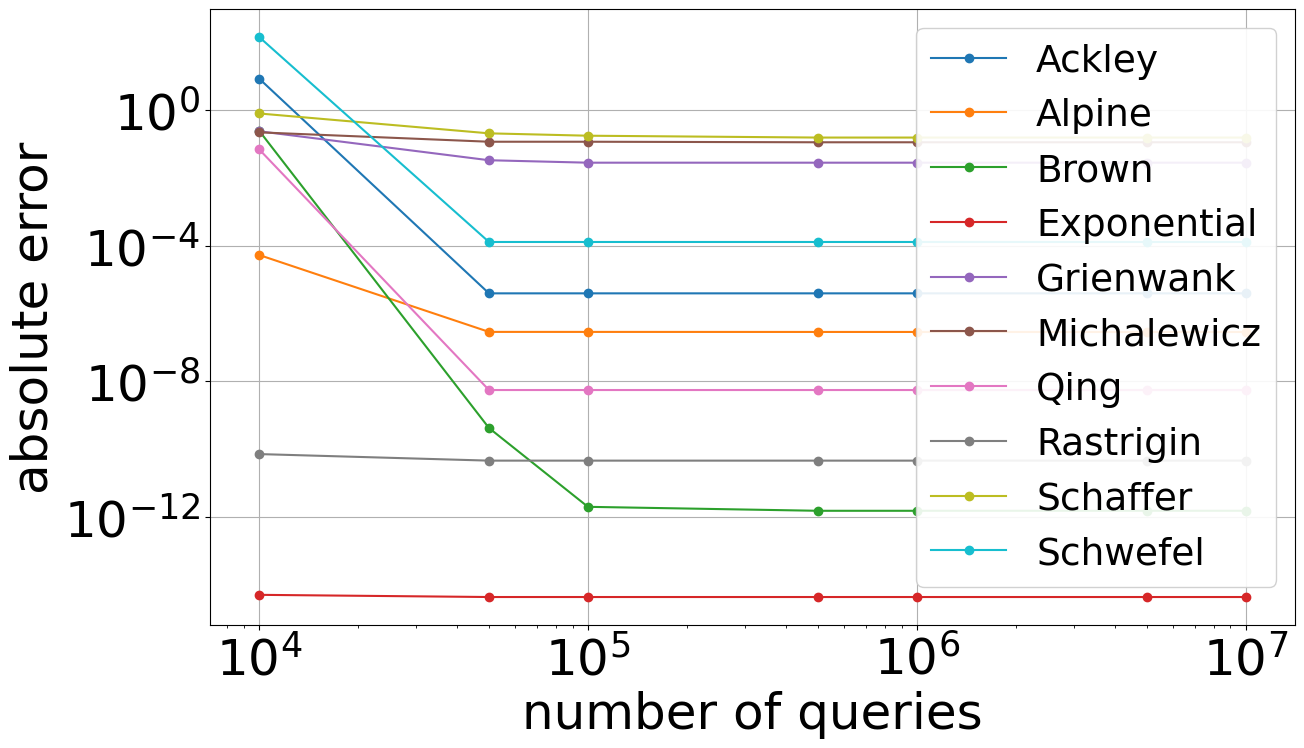
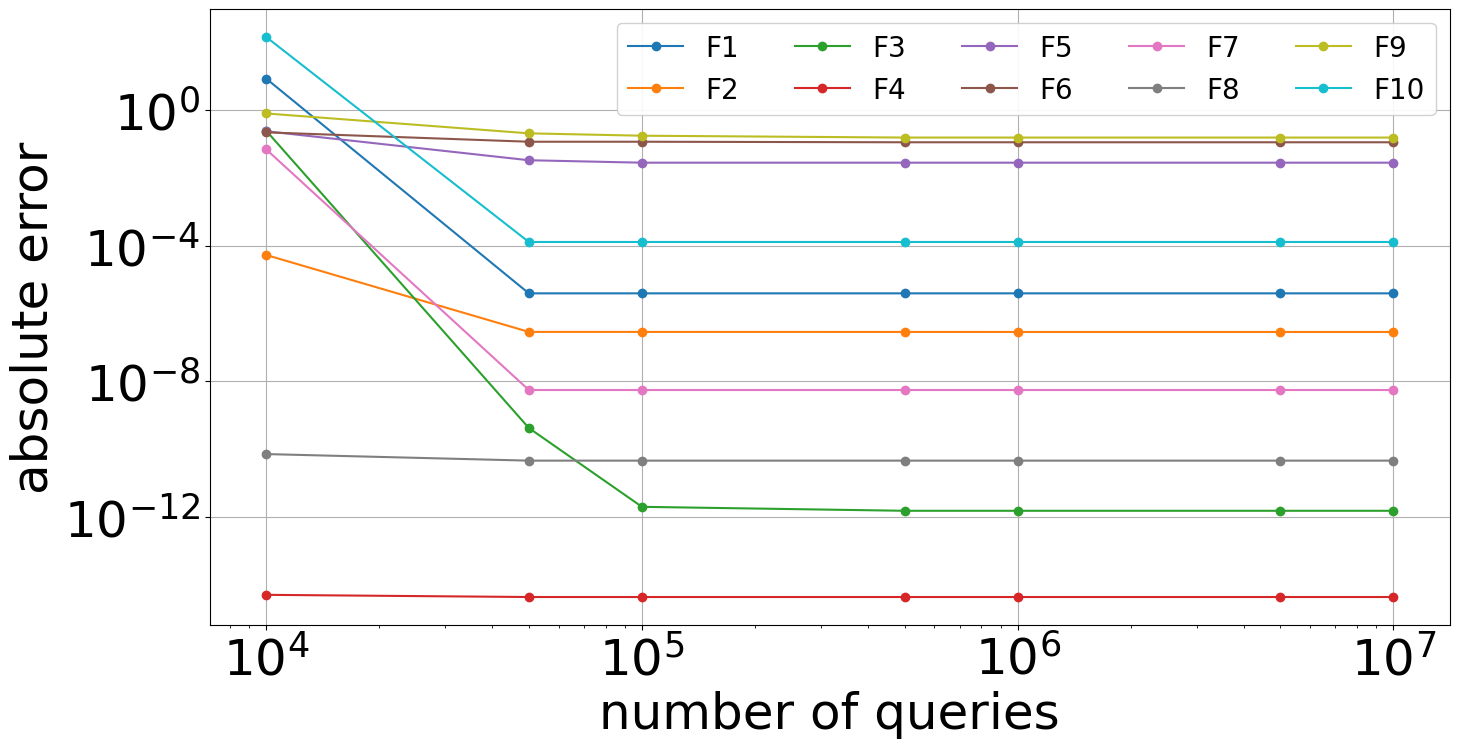
More computations

diff --git a/demo_calc/run.py b/demo_calc/run.py
@@ -237,7 +237,7 @@ def run_show(d, name='calc1'):
     """Show results of the previous calculations."""
     log(f'', d, name, 'show', is_init=True)
     run_show_comp(d, name)
-    run_show_dims(D_LIST[-1], name)
+    run_show_dims(d, D_LIST[-1], name)
     run_show_iter(d, name)
     run_show_quan(d, name)
     run_show_rank(d, name)
@@ -281,27 +281,38 @@ def run_show_comp(d, name='calc1'):
     log(text, d, name, 'show')
 
 
-def run_show_dims(d, name='calc1'):
-    res = load(d, name, 'dims')
+def run_show_dims(d0, d_max, name='calc1'):
+    res = load(d_max, name, 'dims')
     if res is None:
-        log('>>> Dims-result is not available', d, name, 'show')
+        log('>>> Dims-result is not available', d0, name, 'show')
         return
 
     text = '>>> Dims-result: \n\n'
 
-    for d in D_LIST:
-        for func in get_funcs(d):
-            item = res[d][func.name]
+    text += '% ------ AUTO CODE START\n'
+
+    for i, name_func in enumerate(res[d_max].keys(), 1):
+        text += '\\multirow{2}{*}{\\emph{F' + str(i) + '}}\n'
+
+        text += '& $\\epsilon$ \n'
+        for d in D_LIST:
+            item = res[d][name_func]
             e = item['e']
+            text += '& ' + f'{e:-8.1e}' + '\n'
+
+        text += '\\\\ \n'
+
+        text += '& $\\tau$ \n'
+        for d in D_LIST:
+            item = res[d][name_func]
             t = item['t']
-            m = item['evals']
+            text += '& \\textit{' + f'{t:-.1f}' + '}\n'
 
-            text += f'{func.name} | d = {d:-5d} | '
-            text += f'e = {e:-7.1e} | t = {t:.2f} | '
-            text += f'evals = {m:-7.1e}\n'
-            break # TODO Remove later
+        text += '\\\\ \\hline \n\n'
 
-    log(text, d, name, 'dims')
+    text += '% ------ AUTO CODE END\n\n'
+
+    log(text, d0, name, 'show')
 
 
 def run_show_iter(d, name='calc1'):
@@ -313,18 +324,18 @@ def run_show_iter(d, name='calc1'):
 
     text = '>>> Iter-result (png file with plot): \n\n'
 
-    plt.figure(figsize=(14, 8))
+    plt.figure(figsize=(16, 8))
     plt.xlabel('number of queries')
     plt.ylabel('absolute error')
 
-    for func in get_funcs(d):
+    for i, func in enumerate(get_funcs(d), 1):
         v = [item['e'] for item in res[func.name]]
-        plt.plot(EVALS_LIST, v, label=func.name, marker='o')
+        plt.plot(EVALS_LIST, v, label=f'F{i}', marker='o')
 
     plt.grid()
     plt.semilogx()
     plt.semilogy()
-    plt.legend(loc='best')
+    plt.legend(loc='best', ncol=5, fontsize=20)
 
     fpath = f'./demo_calc/res_plot/{name}_iter_{d}dim.png'
     plt.savefig(fpath, bbox_inches='tight')
@@ -373,18 +384,18 @@ def run_show_rank(d, name='calc1'):
 
     text = '>>> Rank-result (png file with plot): \n\n'
 
-    plt.figure(figsize=(14, 8))
+    plt.figure(figsize=(16, 8))
     plt.xlabel('rank')
     plt.ylabel('absolute error')
     plt.xticks(R_LIST)
 
-    for func in get_funcs(d):
+    for i, func in enumerate(get_funcs(d), 1):
         v = [item['e'] for item in res[func.name]]
-        plt.plot(R_LIST, v, label=func.name, marker='o')
+        plt.plot(R_LIST, v, label=f'F{i}', marker='o')
 
     plt.grid()
     plt.semilogy()
-    plt.legend(loc='best')
+    plt.legend(loc='best', ncol=5, fontsize=20)
 
     fpath = f'./demo_calc/res_plot/{name}_rank_{d}dim.png'
     plt.savefig(fpath, bbox_inches='tight')
